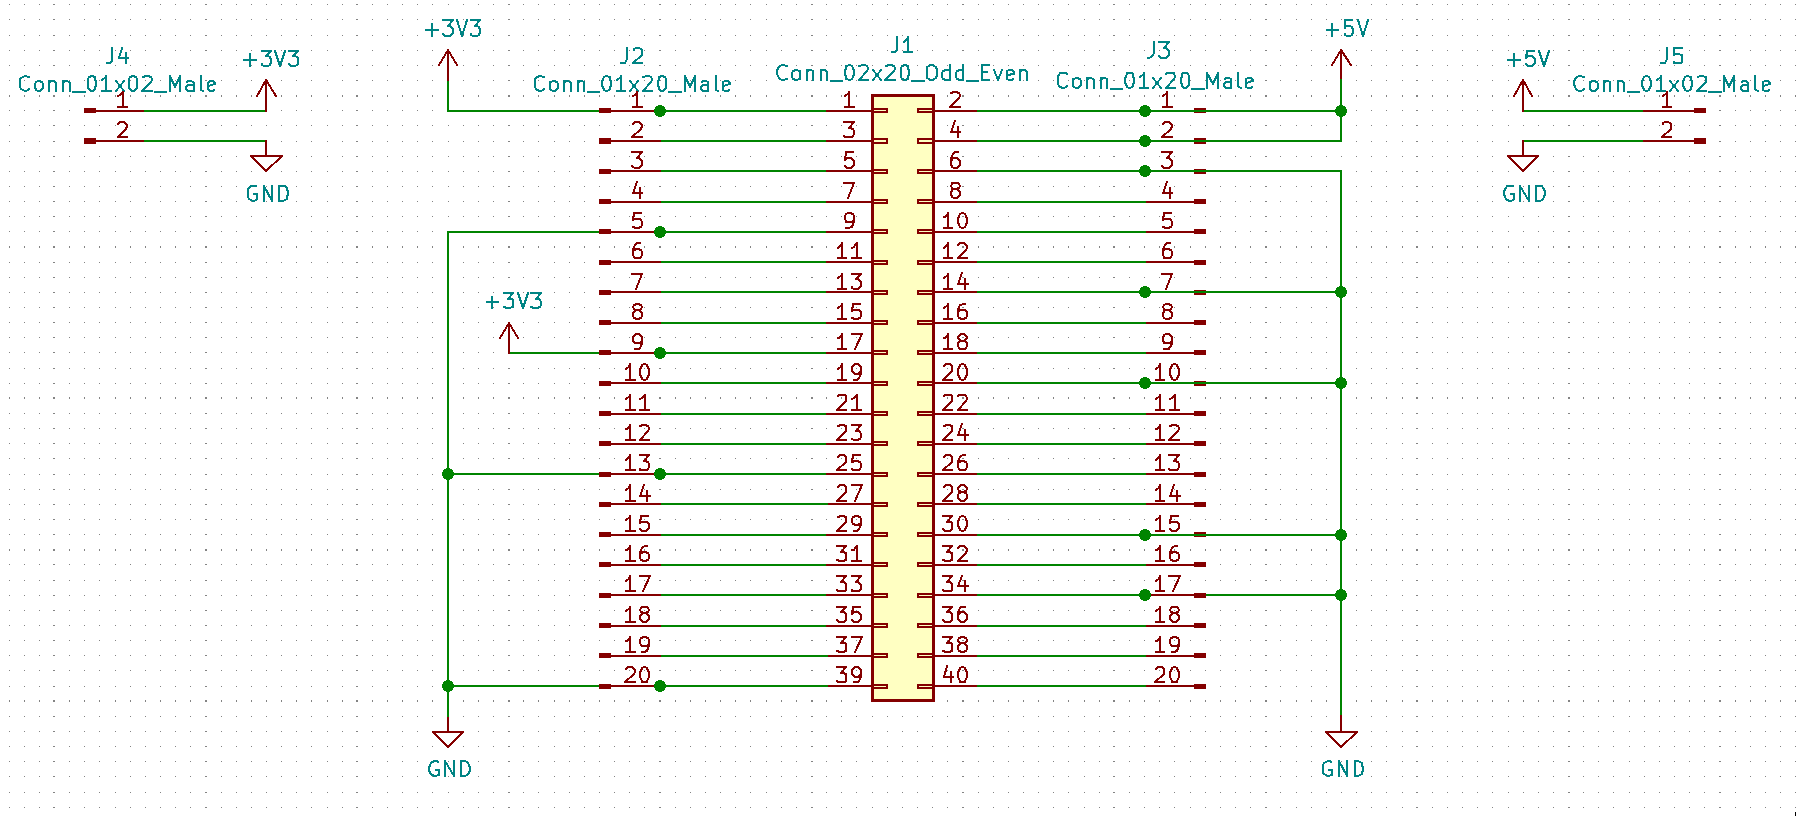
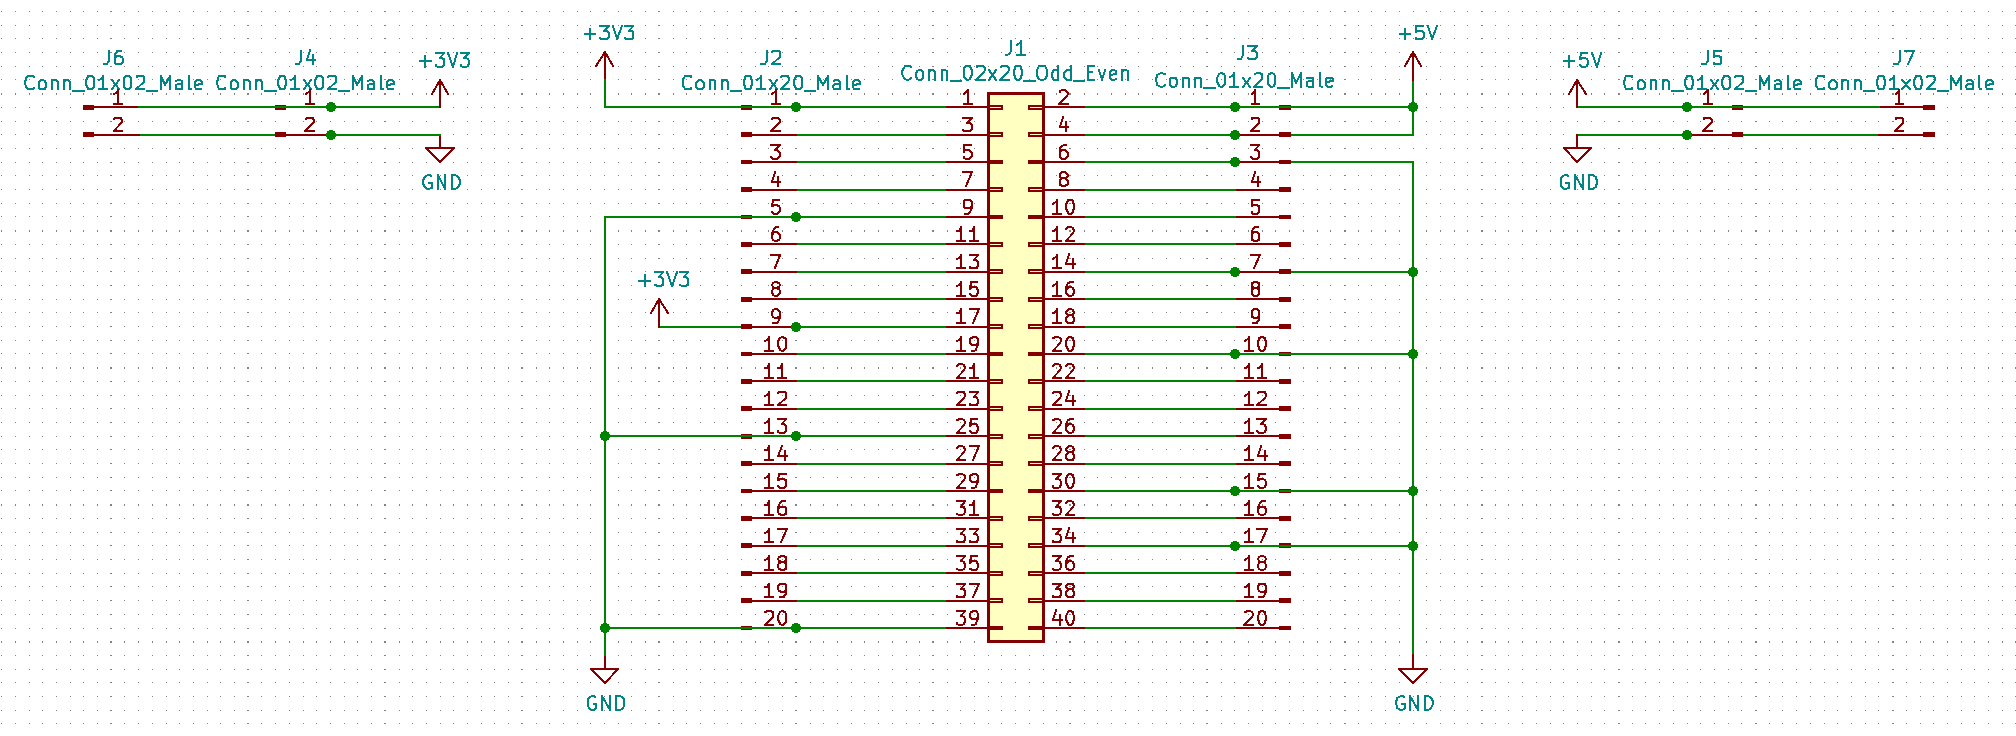
odroid-extend 이미지 변경

diff --git a/odroid-extend/README.md b/odroid-extend/README.md
@@ -9,7 +9,7 @@ Odroid N2(+) Pinout
 
 회로도
 
-![회로도](images/odroid-extend_sch.png)
+![회로도](images/pi-extend_sch.png)
 
 PCB 이미지 앞면
 
